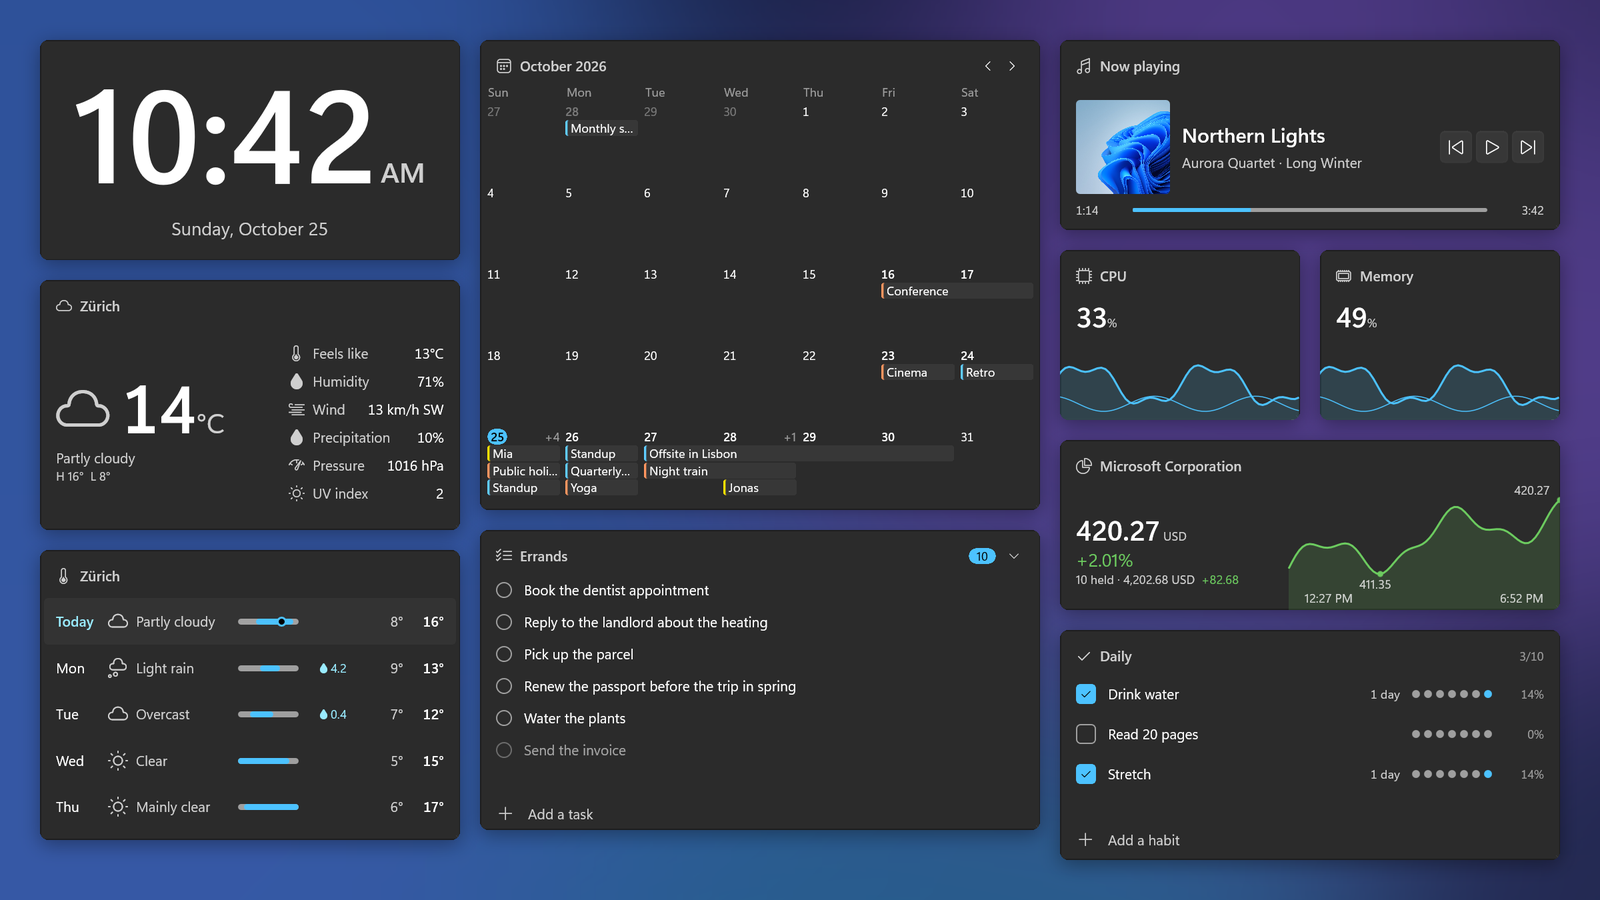
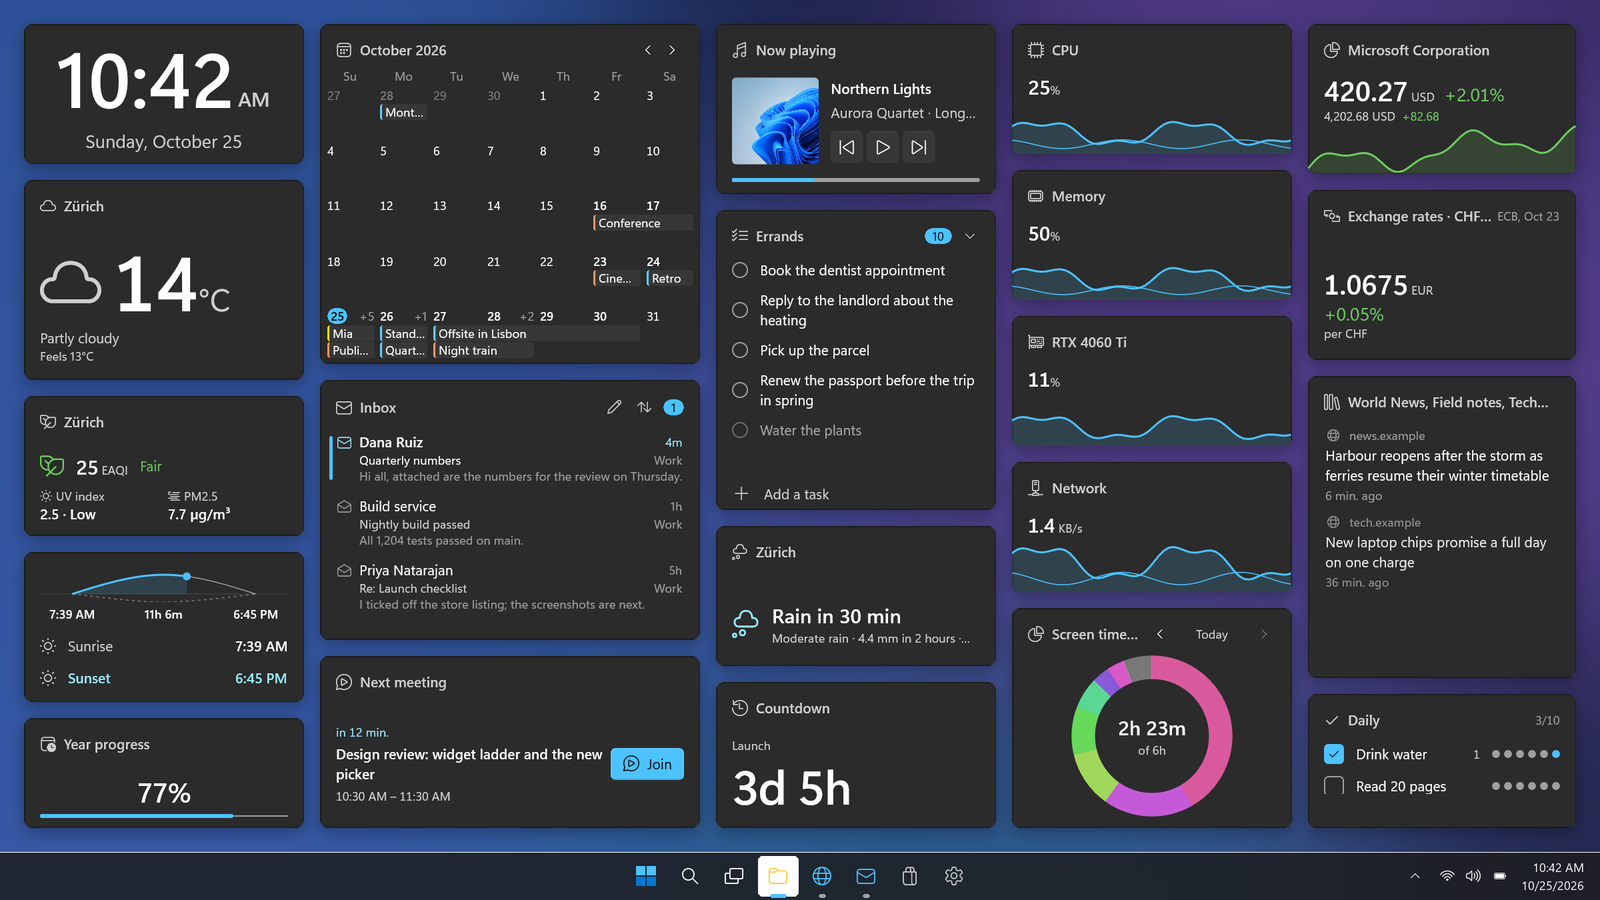
README: the hero image only, and much shorter
A fuller desktop (21 widgets, with the taskbar so it reads as the
desktop at a glance), and only how to get Themia, where to get help and
the free Pro licence for contributing. The styles and picker images go.

diff --git a/README.md b/README.md
@@ -1,122 +1,29 @@
-<div align="center">
-
 # Themia
 
-**Widgets for your Windows desktop.** The clock, the weather, your calendar, mail, tasks, notes,
-music and how your PC is doing, right on your wallpaper, behind your windows.
+Widgets for the Windows desktop: clock, weather, calendar, mail, tasks, system meters and more,
+drawn on your wallpaper behind your windows.
 
-[Website](https://themia.app) · [Get help](#help-and-support) · [Report a problem](https://github.com/crazy-rabbit-software/themia/issues/new/choose) · [Contribute and get Pro for free](#contribute-and-get-pro-for-free)
+![Themia widgets on a Windows 11 desktop, above the taskbar](docs/readme/desktop.png)
 
-</div>
+## Get it
 
-![Themia widgets on a Windows desktop: a clock, the weather and forecast, a month calendar, a task list, music controls, CPU and memory meters, a stock price and a habit tracker](docs/readme/desktop.png)
+From the Microsoft Store, for Windows 11 ([themia.app](https://themia.app) has the link). Free for up
+to 20 widgets and 2 layouts; Themia Pro, a one-time purchase, removes both limits.
 
-## What Themia does
+## Help
 
-Themia puts small, good-looking panels on your desktop that show what you care about. They sit
-behind your windows like your wallpaper, so they never get in the way. Minimise everything (or press
-**Win + D**) and there they are.
+- Something broken: [report a bug](https://github.com/crazy-rabbit-software/themia/issues/new?template=bug-report.yml)
+- An idea: [suggest a feature](https://github.com/crazy-rabbit-software/themia/issues/new?template=feature-request.yml) or [a widget](https://github.com/crazy-rabbit-software/themia/issues/new?template=widget-request.yml)
+- A question: [Discussions](https://github.com/crazy-rabbit-software/themia/discussions)
+- Anything private: [support@themia.app](mailto:support@themia.app)
 
-- **79 widgets to choose from.** Clocks, weather, calendars, mail, to-do lists, notes, music,
-  photos, shortcuts to your apps and folders, and meters for your CPU, memory, battery and network.
-- **They fit any size.** Make a widget bigger and it shows more; make it smaller and it keeps what
-  matters most.
-- **Make it yours.** Many widgets come in several styles, and you choose the colours, transparency,
-  borders and corners. Light and dark mode follow Windows.
-- **Several layouts.** Keep one desktop for work and one for the evening, and switch with a click.
-  Every screen can have its own.
-- **Your accounts, on your PC.** Mail, calendars and tasks connect directly to Microsoft (Outlook),
-  Google, iCloud or your own mail server. Nothing goes through us.
-- **Private by design.** No ads, no tracking, no analytics, and no Themia account to create.
-- **Light on your PC.** Built for Windows 11, it starts fast and does nothing while nothing changes.
-- **In your language.** Available in 30 languages.
+## Contribute
 
-### Pick a style
+Every contribution gets you a free Themia Pro licence: a bug report, an idea, a translation fix,
+testing a fix, helping someone in the issues, or code. Mention it in your issue or pull request, or
+email [support@themia.app](mailto:support@themia.app) with a link.
 
-![The clock as an analogue, flip, stacked and word clock, and a calendar and weather widget in light mode](docs/readme/styles.png)
+Building Themia and sending code: [CONTRIBUTING.md](CONTRIBUTING.md). The source is available under
+the [Elastic License 2.0](LICENSE).
 
-### Add widgets in seconds
-
-<img src="docs/readme/picker.png" alt="The Add widget picker: search, popular widgets, and categories such as Time, Calendar and mail, Weather and sky, System and Quick settings" width="480" />
-
-| Category | A few of the widgets |
-|---|---|
-| Time | Clock, alarm, timer, stopwatch, Pomodoro, focus session |
-| Calendar and mail | Calendar, week planner, next meeting, mail, contacts, tasks |
-| Weather and sky | Weather now, forecast, rain in the next hour, air quality, sun and moon |
-| News and markets | Stocks, exchange rates, news feeds, quote of the day |
-| Music and media | Now playing, volume, mixer, photo gallery, camera stream |
-| Notes and tools | Notes, scratchpad, clipboard history, habit tracker, notifications |
-| Files and apps | App shortcuts, folders, recent files, Recycle Bin, drives |
-| System | CPU, memory, graphics card, disk, network, screen time |
-| Devices and quick settings | Battery, brightness, Wi-Fi, Bluetooth, Do not disturb, night light, shut down and restart |
-
-## Get Themia
-
-Themia is available from the **Microsoft Store** for Windows 11. The Store installs it and keeps
-it up to date. See [themia.app](https://themia.app) for the link.
-
-- **Free:** every widget, up to 20 widgets and 2 layouts.
-- **Themia Pro:** unlimited widgets and layouts. One purchase, no subscription.
-
-If you ever go over the free limit, nothing you made is deleted or hidden.
-
-### Getting started
-
-1. After installing, Themia starts with a few widgets on your desktop.
-2. Press **Ctrl + Alt + W** (or double-click a widget) to start editing.
-3. Click **Add widget**, pick one, and click on your desktop to place it.
-4. Drag widgets to move them, drag their edges to resize, and **right-click** one to change its
-   style, colours and options.
-5. Click **Done** when you are happy with it.
-
-## Help and support
-
-- **Something not working?** [Report a problem](https://github.com/crazy-rabbit-software/themia/issues/new?template=bug-report.yml).
-  Tell us which widget, what you did and what happened. A screenshot helps a lot.
-- **An idea or a widget you'd love?** [Suggest an improvement](https://github.com/crazy-rabbit-software/themia/issues/new?template=feature-request.yml)
-  or [request a widget](https://github.com/crazy-rabbit-software/themia/issues/new?template=widget-request.yml).
-- **Want to chat or ask a question?** Join the [Discussions](https://github.com/crazy-rabbit-software/themia/discussions).
-- **Something private** (a purchase, your account, or anything you'd rather not post publicly)?
-  Email [support@themia.app](mailto:support@themia.app).
-
-Before you open a new report, have a quick look at the [open issues](https://github.com/crazy-rabbit-software/themia/issues):
-someone may have reported it already, and a thumbs-up there tells us it matters to you too.
-Issues are public, so never post passwords or other private information.
-
-## Contribute and get Pro for free
-
-Themia gets better because people tell us what's wrong and what's missing. **Anyone who
-contributes to Themia, in any way, gets a free Themia Pro licence.** You don't need to be a
-programmer. For example:
-
-- **Report a bug** you ran into, with the steps to see it again.
-- **Suggest a feature or a new widget.**
-- **Improve a translation** in your language, or tell us where the wording is wrong.
-- **Test a fix** and tell us whether it works for you.
-- **Help other people** in the issues or the Discussions.
-- **Share your setup** with a screenshot of your desktop in the Discussions.
-- **Write code**: fix a bug or build a widget (see [CONTRIBUTING.md](CONTRIBUTING.md)).
-
-To get your licence, mention it in your issue or pull request, or email
-[support@themia.app](mailto:support@themia.app) with a link to what you did. Thank you!
-
-## For developers
-
-Themia's source code is public. You can read it, build it yourself and send improvements.
-[CONTRIBUTING.md](CONTRIBUTING.md) explains how to build Themia, how it works inside and how to
-send a pull request.
-
-The source is available under the [Elastic License 2.0](LICENSE): you may read, build, change and
-share it, but not remove or work around the Pro licence check, remove the notices, or offer Themia
-as a hosted service. That makes it source available, not open source; the LICENSE file is the
-binding text. The Themia name and logo are not covered by the licence, so give a modified build its
-own name and icon. Third-party material is listed in [THIRD-PARTY-NOTICES.md](THIRD-PARTY-NOTICES.md).
-
----
-
-<div align="center">
-
-Made by [Lometics GmbH](https://lometics.com) · [Privacy policy](https://lometics.com/en/legal/privacy/) · © 2026 Lometics GmbH
-
-</div>
+© 2026 Lometics GmbH · [Privacy policy](https://lometics.com/en/legal/privacy/)
